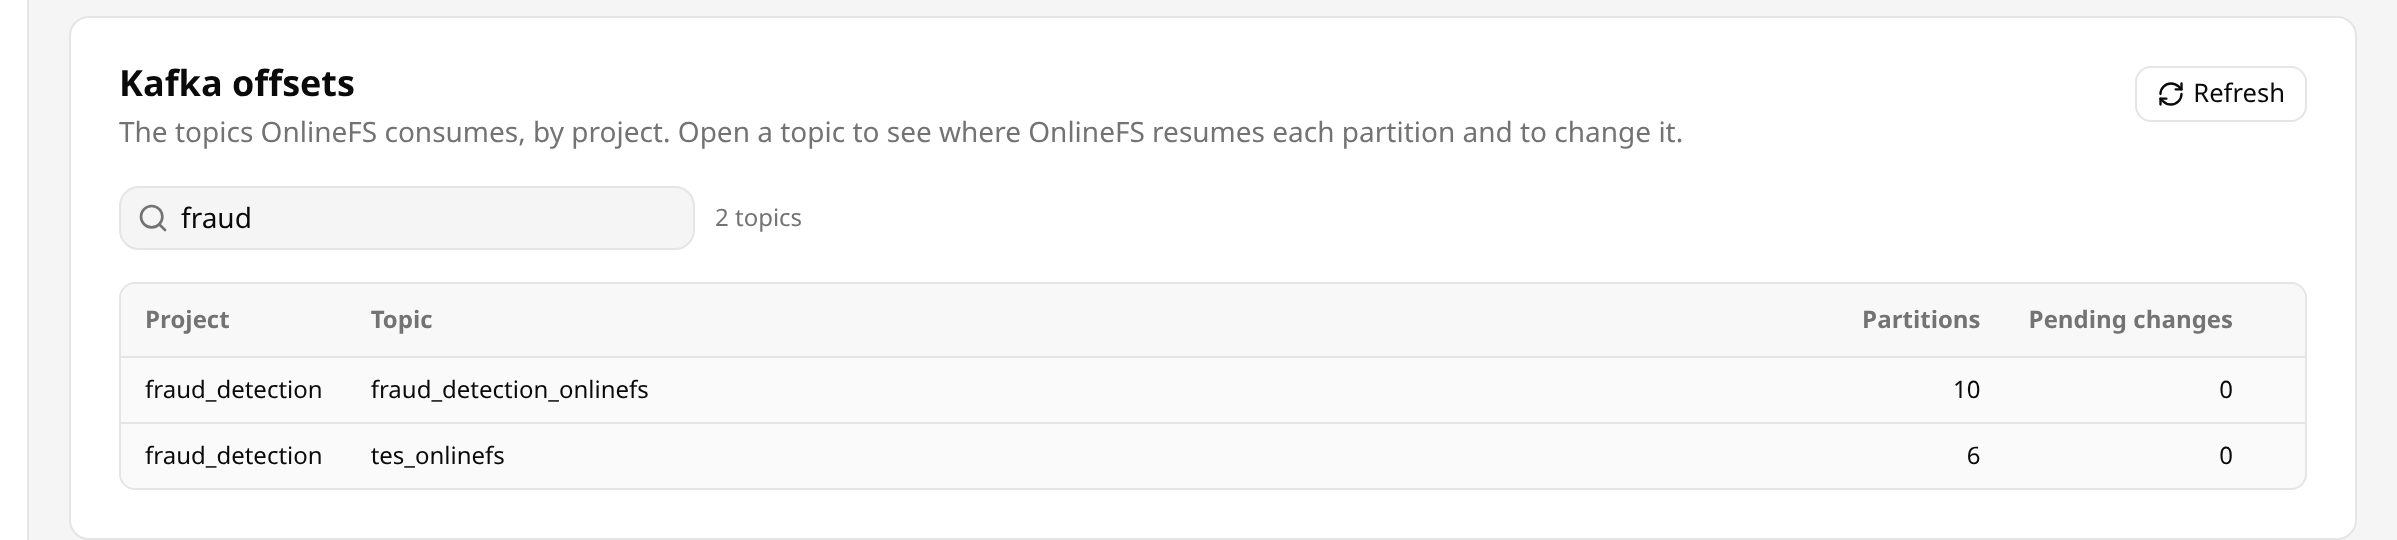
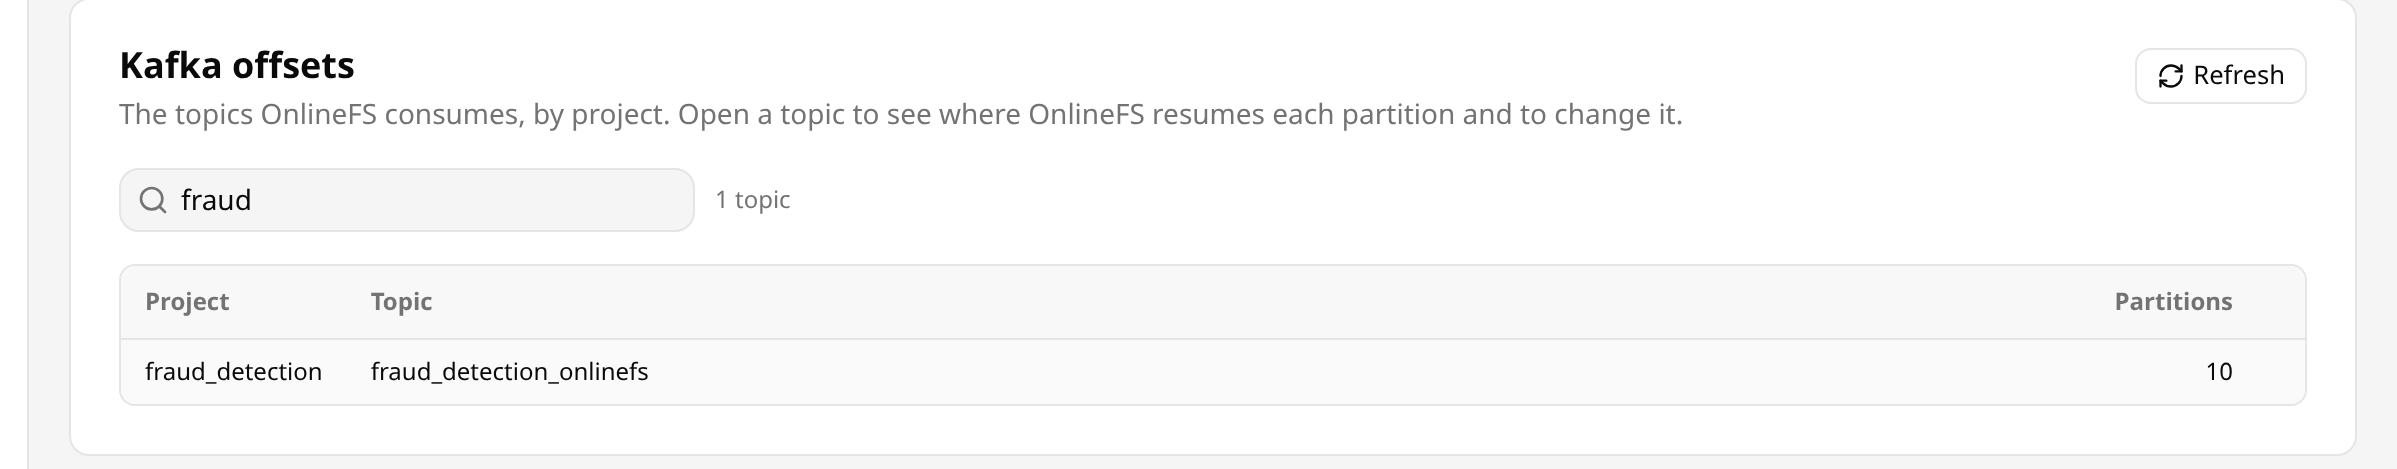
[FSTORE-2155] onlinefs: stale offsets in kafka_offsets are reused after a backup/restore recreates the online topics https://hopsworks.atlassian.net/browse/FSTORE-2155
logicalclocks.github.io: the two Kafka offsets captures are retaken
with the simplified view, on bubriks-2 upgraded from the 5.2.4 release
to the PR heads (1440 css at 2x, cropped with capture_crop.py). The
upgrade guide's completion check says the offsets-schema log has the
completion line rather than ends with it, since the Kafka client logs
its close after it.

diff --git a/docs/setup_installation/admin/upgrade.md b/docs/setup_installation/admin/upgrade.md
@@ -528,7 +528,7 @@ kubectl exec mysqlds-0 -n "$NAMESPACE" -c mysqld -- env MYSQL_PWD="$ROOT_PW" mys
 
 OnlineFS then has no offsets for the online topics of that project and reads them from their earliest retained record, so it writes the records Kafka still retains to the online feature store again, and skips none.
 
-The step has finished when every OnlineFS pod is `Running`, the `offsets-schema` log ends with `Moved the per-project kafka_offsets into onlinefs.kafka_offsets` or `No per-project kafka_offsets left to move`, and no project table is left:
+The step has finished when every OnlineFS pod is `Running`, the `offsets-schema` log has `Moved the per-project kafka_offsets into onlinefs.kafka_offsets` or `No per-project kafka_offsets left to move`, and no project table is left:
 
 ```sh
 kubectl exec mysqlds-0 -n "$NAMESPACE" -c mysqld -- env MYSQL_PWD="$ROOT_PW" mysql -uroot -N -e \

diff --git a/docs/setup_installation/admin/onlinefs.md b/docs/setup_installation/admin/onlinefs.md
@@ -291,7 +291,7 @@ Each row shows the project, the topic and its number of partitions in Kafka.
 The search matches the project or the topic name.
 
 <figure>
-  <img src="../../../assets/images/admin/onlinefs/offsets_card.png" alt="The Kafka offsets card listing two topics of the fraud_detection project with their partition counts and pending changes" />
+  <img src="../../../assets/images/admin/onlinefs/offsets_card.png" alt="The Kafka offsets card listing the topic of the fraud_detection project with its number of partitions" />
   <figcaption>The topics OnlineFS consumes</figcaption>
 </figure>
 
